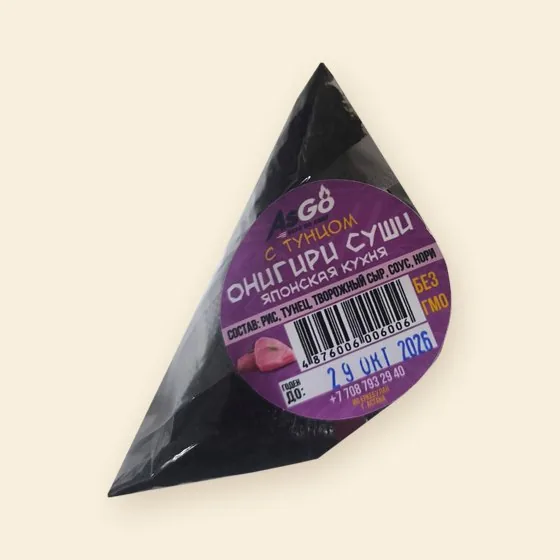
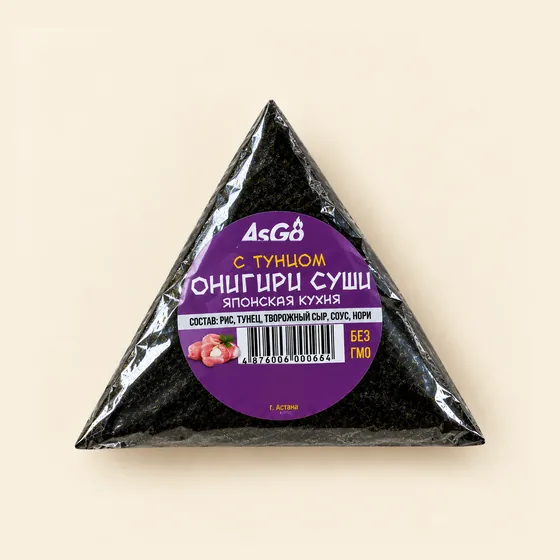
AsGo onigiri (tuna, Philadelphia, crab): new photos with corrected labels, show on site
Claude-Session: https://claude.ai/code/session_01BGg67RWkXMpNdrJ4w4wqim

diff --git a/products.js b/products.js
@@ -105,10 +105,10 @@ const PRODUCTS = [
    kk:{name:"Тауық етімен Sushi Burger", composition:"Күріш, сүзбе ірімшігі, нори, темпурадағы тауық еті, сәбіз, қияр, спайси тұздығы.", nutrition:"Қаптамада: 400–430 ккал, ақуыз 22 г, май 16 г, көмірсу 45 г."}},
   {name:"Кимпаб с курицей", brand:"AsGo", category:"Кимпаб", weight:"", price:null, labels:[], image:"img/32.webp", composition:"Курица, рис, нори, огурец, яйцо, морковь, капуста, майонез, творожный сыр, фирменный соус.", shelfLife:"Хранить при температуре от +2 до +6 °C.",
    kk:{name:"Тауық етімен кимпаб", composition:"Тауық еті, күріш, нори, қияр, жұмыртқа, сәбіз, қырыққабат, майонез, сүзбе ірімшігі, фирмалық тұздық.", shelfLife:"+2 °C-ден +6 °C-ге дейінгі температурада сақтау керек."}},
-  {name:"Онигири AsGo с тунцом", hidden:true /* скрыт до пересъёмки фото */, brand:"AsGo", category:"Онигири", weight:"", price:null, labels:[], image:"img/33.webp", composition:"Рис, тунец, творожный сыр, соус, нори.",
+  {name:"Онигири AsGo с тунцом", brand:"AsGo", category:"Онигири", weight:"", price:null, labels:[], image:"img/33.webp", composition:"Рис, тунец, творожный сыр, соус, нори.",
    kk:{name:"AsGo тунецті онигири", composition:"Күріш, тунец, сүзбе ірімшігі, тұздық, нори."}},
-  {name:"Онигири Филадельфия", hidden:true /* скрыт до пересъёмки фото */, brand:"AsGo", category:"Онигири", weight:"", price:null, labels:[], image:"img/34.webp", composition:"Рис, лосось, творожный сыр, соус, нори.",
+  {name:"Онигири Филадельфия", brand:"AsGo", category:"Онигири", weight:"", price:null, labels:[], image:"img/34.webp", composition:"Рис, лосось, творожный сыр, соус, нори.",
    kk:{name:"Филадельфия онигири", composition:"Күріш, албырт, сүзбе ірімшігі, тұздық, нори."}},
-  {name:"Онигири с крабом", hidden:true /* скрыт до пересъёмки фото */, brand:"AsGo", category:"Онигири", weight:"", price:null, labels:[], image:"img/35.webp", composition:"Рис, водоросли нори, крабовые палочки, спайси соус, творожный сыр.",
+  {name:"Онигири с крабом", brand:"AsGo", category:"Онигири", weight:"", price:null, labels:[], image:"img/35.webp", composition:"Рис, водоросли нори, крабовые палочки, спайси соус, творожный сыр.",
    kk:{name:"Краб қосылған онигири", composition:"Күріш, нори балдыры, краб таяқшалары, спайси тұздығы, сүзбе ірімшігі."}}
 ];
